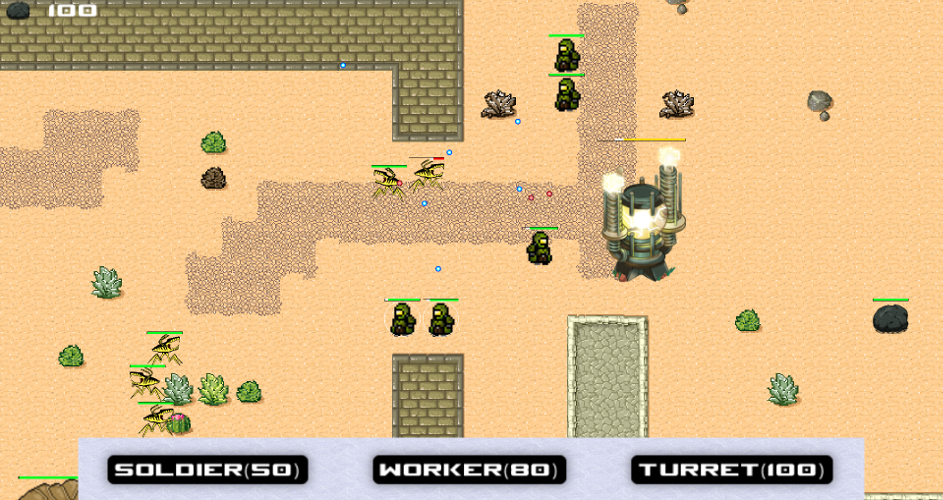
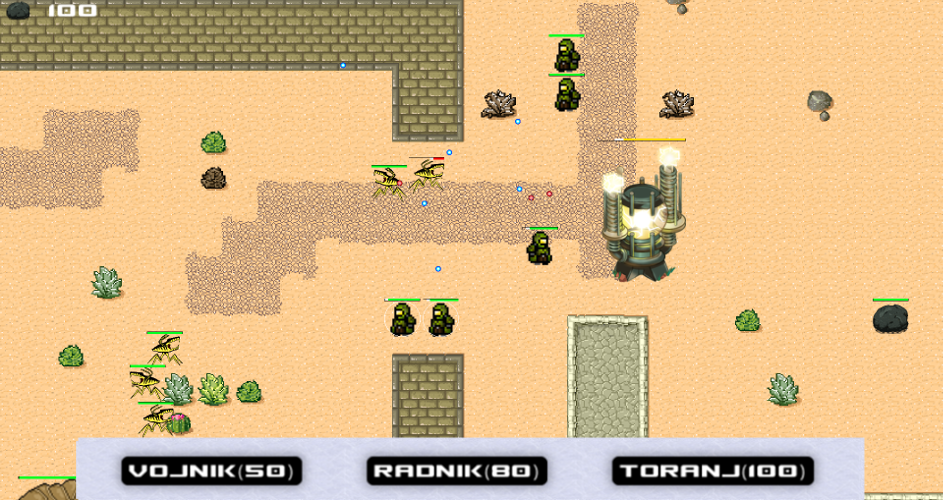
Added a description for the menus Also edited some of the images to use croatian text

Changed region(s): [[0.0615, 0.9, 0.3383, 0.99], [0.6458, 0.9, 0.8918, 0.99], [0.369, 0.9, 0.6151, 0.99]]

diff --git a/thesis/zavrsni.tex b/thesis/zavrsni.tex
@@ -683,7 +683,7 @@ Označene jedinice će se zatim grupirati ako su dovoljno blizu i krenuti zajedn
 
 \begin{figure}[h]
 	\centering
-	\includegraphics[width=0.9\linewidth]{images/gameStartScreenshot.png}
+	\includegraphics[width=0.9\linewidth]{images/gameStart.png}
 	\caption{Početno stanje u igri}
 	\label{fig:gameStart}
 \end{figure}
@@ -734,7 +734,7 @@ Nakon što se resurs skupi, odgovarajuća količina minerala bit će dodana igra
 Također, ako u blizini postoje ostali izvori materijala, radnik će ih samoinicijativno krenuti skupljati.
 Bez ove mogućnosti, radnici bi zahtijevali previše mikroupravljanja te bi igrač redovito morao skretati pozornost s bitke samo kako bi zadao jednostavnu naredbu radniku.
 
-\par Kada je skupljeno dovoljno minerala za izgraditi zgradu, igrač može klikom na gumb \textit{Turret (100)} izabrati da želi izgraditi navedenu zgradu.
+\par Kada je skupljeno dovoljno minerala za izgraditi zgradu, igrač može klikom na gumb \textit{Toranj (100)} izabrati da želi izgraditi navedenu zgradu.
 Time će se pojaviti silueta zgrade koja prati lokaciju koju miš označuje na mapi, kao što je prikazano na slici~\ref{fig:building}.
 Korisnikovim klikom na lokaciju na mapi će zgrada biti izgrađena na tom mjestu, ako je moguće.
 Ako korisnik označi lokaciju na kojoj se zgrada ne može izgraditi, ili ako za izgradnju zgrade nisu dostupni resursi, silueta zgrade će biti crvena.
@@ -746,14 +746,39 @@ Ako korisnik označi lokaciju na kojoj se zgrada ne može izgraditi, ili ako za 
 	\label{fig:building}
 \end{figure}
 
-\par Prilikom ulaska u igru igrač ima mogućnost pokretanja nove igre, učitavanja već započete igre, ulaska u postavke i izlaska iz igre.
-% Dodaj slike
-% Pokaži postavke
+\par Tijekom igre igrač ima mogućnost spremanja stanja trenutne igre.
+Zatim tijekom ulaska u igru ima mogućnost učitavanje iste igre, uz mogućnost započinjanja nove.
+
+\par Na slici~\ref{fig:menus} prikazani su izbornici dostupni u igri.
+Gornja lijeva slika prikazuje je početni izbornik koji nudi opciju pokretanja nove igre, učitavanja stare, ulaska u postavke i izlaska iz igre.
+U gornjoj desnoj slici prikazan je izbornik koji se pojavi kada igrač pritisne tipku za povratak unutar igre.
+Omogućuje igraču povratak u igru, spremanje igre na disk, ulazak u postavke i povratak na početni izbornik.
+Donja slika prikazuje izbornik s postavkama.
+U njemu su omogućene sljedeće mogućnosti:
+\begin{itemize}
+	\item prikaz brojača slika u sekundi (engl. \textit{Frames per second}, FPS).
+	\item prikaz trenutno planiranih putanja jedinica.
+	\item prikaz indikatora \textit{zdravlja} igračevih jedinica.
+	\item prikaz indikatora \textit{zdravlja} protivničkih jedinica.
+	\item prikaz indikatora \textit{zdravlja} izvora resursa na mapi.
+	\item prikaz indikatora \textit{zdravlja} zgrada.
+\end{itemize}
+
+
+\begin{figure}[h]
+	\centering
+	\includegraphics[width=1.0\linewidth]{images/menus.png}
+	\caption{Prikaz izbornika u igri}
+	\label{fig:menus}
+\end{figure}
 
 \section{Dodavanje novih funkcionalnosti}
 
-Jedna od ključnih ideja tijekom razvoja jezgrenih funkcionalnosti RTS igre bila je jednostavno proširivost igre.
+\par Jedna od ključnih ideja tijekom razvoja jezgrenih funkcionalnosti RTS igre bila je jednostavno proširivost igre.
 U ovom potpoglavlju bit će prikazano nekoliko primjera kako se mogu jednostavno dodati nove zgrade i jedinice u konkretnu igru.
+
+\par Bitno je napomenuti da se za sve dodane objekte u igru moraju definirati teksture s kojima će se objekti prikazivati.
+Novi objekti dodani u ovom poglavlju su osnovn slike izrađene u besplatnom alatu za uređivanje alata \textit{GIMP}.
 
 \begin{minipage}{\textwidth}
 	\lstinputlisting[caption = {Isječak koda u Javi koji dodaje novu protivničku jedinicu},
